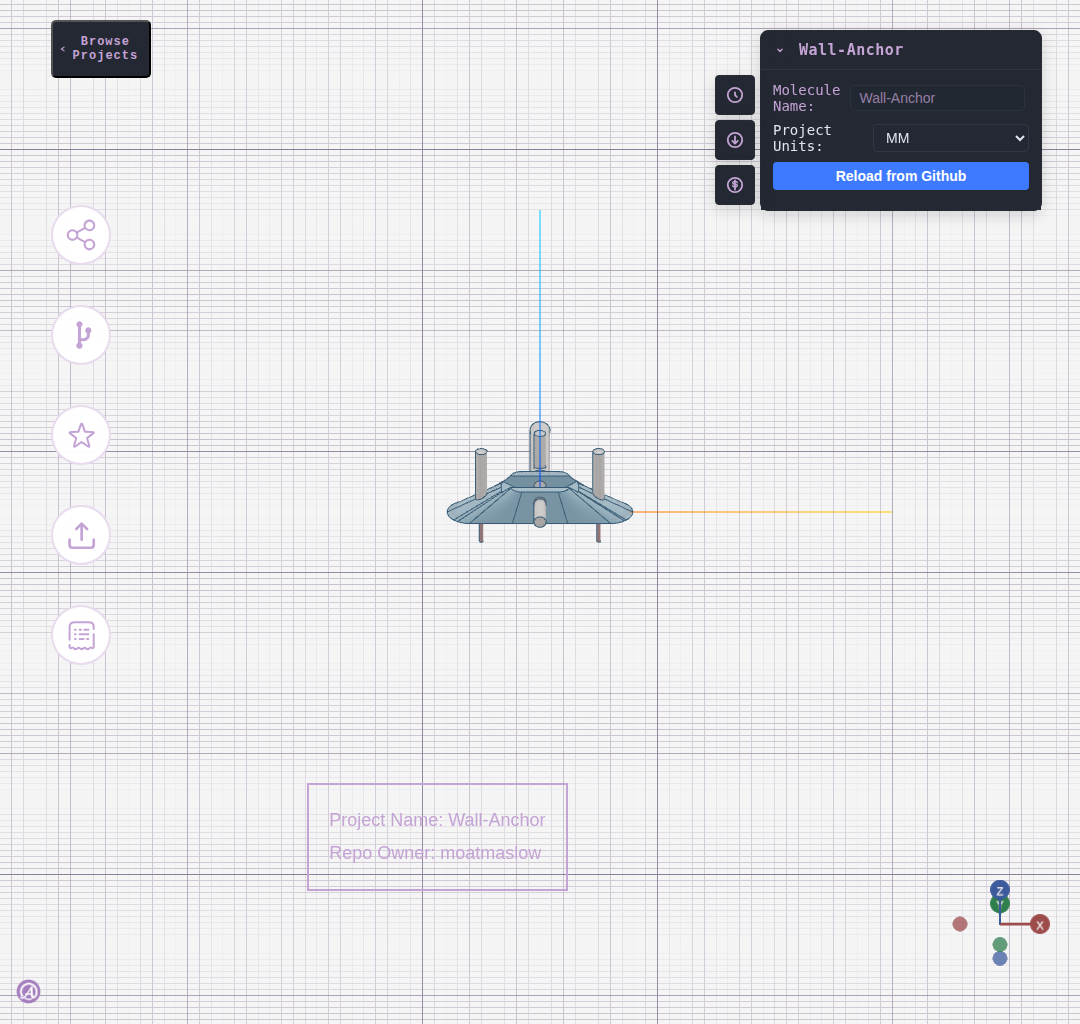
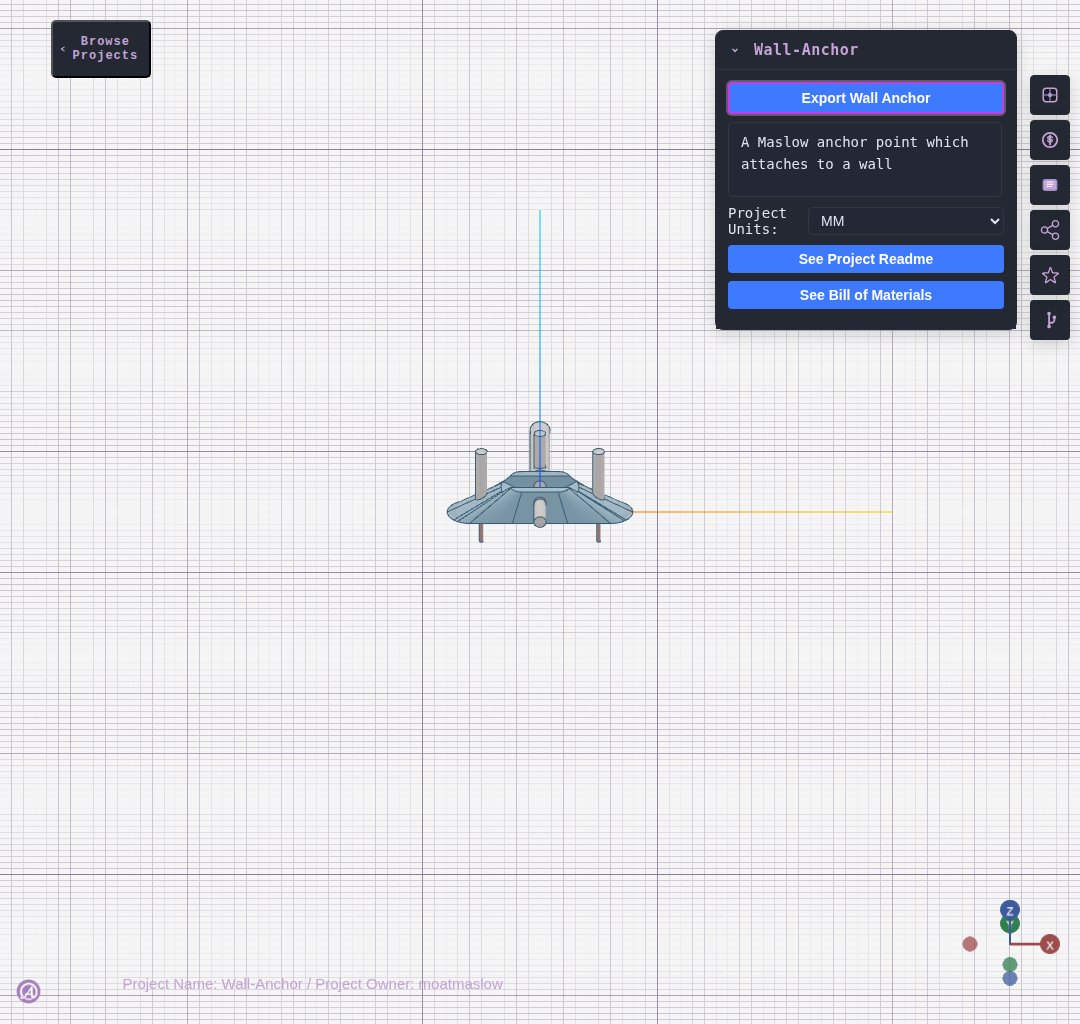
Fix axis indicator positioning - increase bottom margin from 60 to 80 pixels

diff --git a/src/components/render/ThreeControls.jsx b/src/components/render/ThreeControls.jsx
@@ -89,7 +89,7 @@ const Controls = React.memo(
 
         {axesParam && (
           <>
-            <GizmoHelper alignment="bottom-right" margin={[70, 60]}>
+            <GizmoHelper alignment="bottom-right" margin={[70, 80]}>
               <GizmoViewport
                 axisColors={["#9d4b4b", "#2f7f4f", "#3b5b9d"]}
                 labelColor="white"
